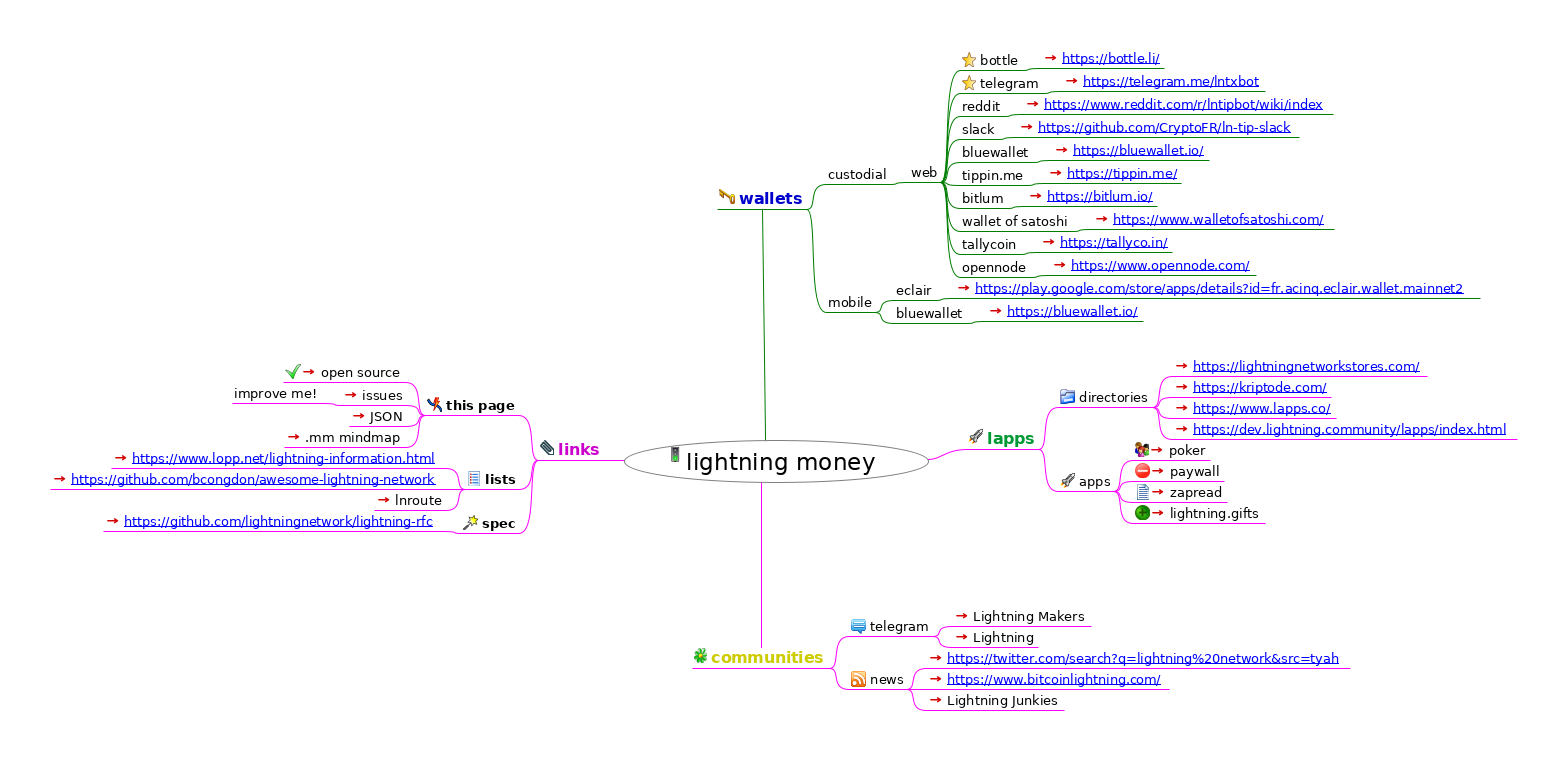
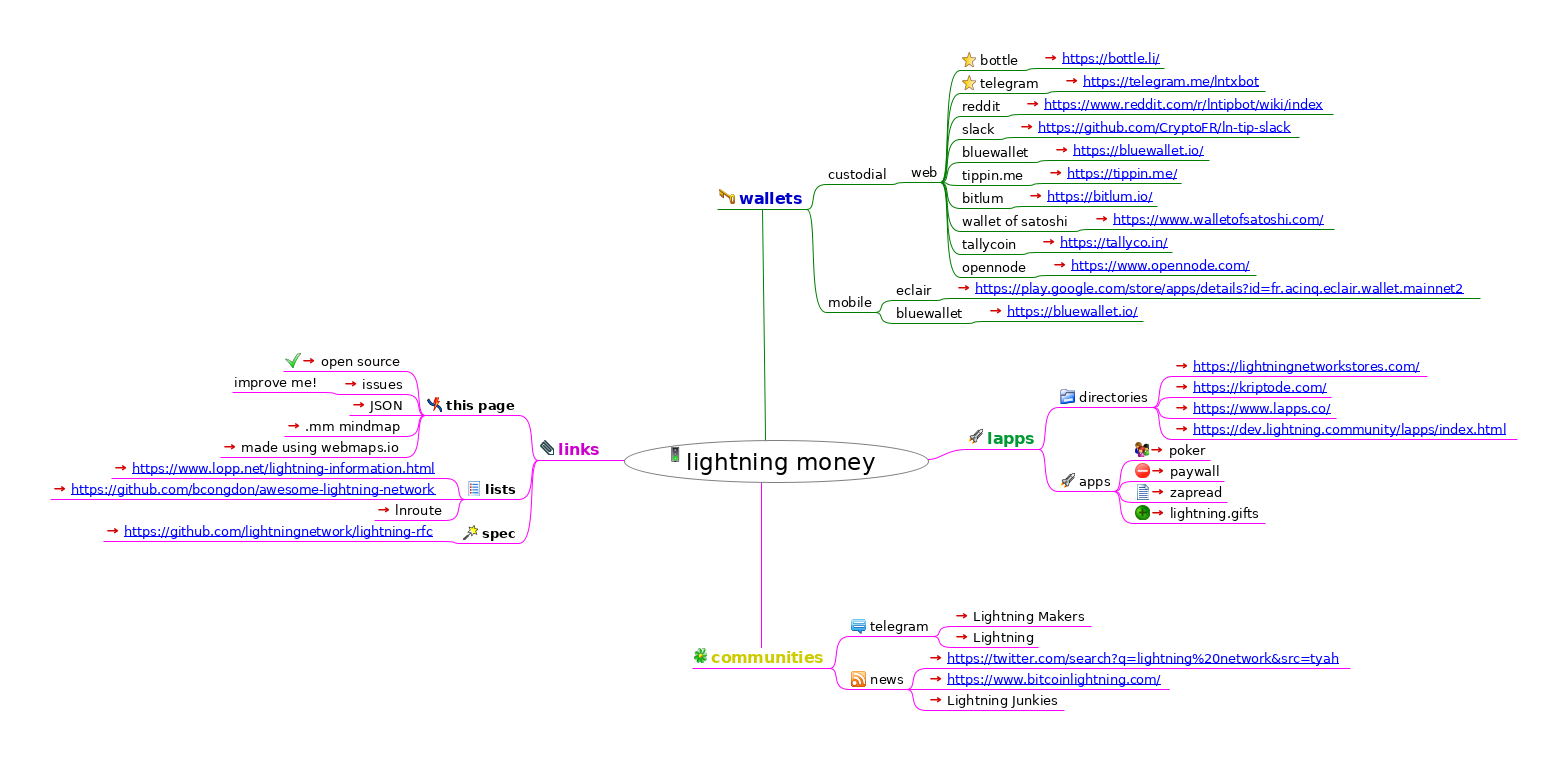
add webmaps.io

Changed region(s): [[0.0306, 0.4539, 0.3369, 0.7263]]

diff --git a/index.html b/index.html
@@ -73,17 +73,18 @@
 <area shape="rect" href="https://anchor.fm/lightning-junkies/" alt="Lightning Junkies" title="Lightning Junkies" coords="926,692,1064,710" />
 <area shape="rect" href="#FMID_728396892FM" alt="links" title="links" coords="538,440,604,460" />
 <area shape="rect" href="#FMID_1704672214FM" alt="this page" title="this page" coords="425,397,519,415" />
-<area shape="rect" href="https://github.com/solidpayorg/lightning.money/" alt="open source" title="open source" coords="283,364,406,382" />
-<area shape="rect" href="https://github.com/solidpayorg/lightning.money/issues" alt="issues" title="issues" coords="341,387,406,405" />
-<area shape="rect" href="#FMID_824388782FM" alt="improve me!" title="improve me!" coords="232,385,322,403" />
-<area shape="rect" href="index.json" alt="JSON" title="JSON" coords="349,408,406,426" />
-<area shape="rect" href="index.html" alt=".mm mindmap" title=".mm mindmap" coords="284,429,406,447" />
-<area shape="rect" href="#FMID_1744026554FM" alt="lists" title="lists" coords="465,471,519,489" />
-<area shape="rect" href="https://www.lopp.net/lightning-information.html" alt="https://www.lopp.net/lightning-informati ..." title="https://www.lopp.net/lightning-informati ..." coords="111,450,446,468" />
-<area shape="rect" href="https://github.com/bcongdon/awesome-lightning-network" alt="https://github.com/bcongdon/awesome-ligh ..." title="https://github.com/bcongdon/awesome-ligh ..." coords="50,471,446,489" />
-<area shape="rect" href="https://lnroute.com/" alt="lnroute" title="lnroute" coords="374,492,446,510" />
-<area shape="rect" href="#FMID_1721082161FM" alt="spec" title="spec" coords="461,515,519,533" />
-<area shape="rect" href="https://github.com/lightningnetwork/lightning-rfc" alt="https://github.com/lightningnetwork/ligh ..." title="https://github.com/lightningnetwork/ligh ..." coords="103,513,442,531" />
+<area shape="rect" href="https://github.com/solidpayorg/lightning.money/" alt="open source" title="open source" coords="283,353,406,371" />
+<area shape="rect" href="https://github.com/solidpayorg/lightning.money/issues" alt="issues" title="issues" coords="341,376,406,394" />
+<area shape="rect" href="#FMID_824388782FM" alt="improve me!" title="improve me!" coords="232,374,322,392" />
+<area shape="rect" href="index.json" alt="JSON" title="JSON" coords="349,397,406,415" />
+<area shape="rect" href="index.html" alt=".mm mindmap" title=".mm mindmap" coords="284,418,406,436" />
+<area shape="rect" href="https://webmaps.io/" alt="made using webmaps.io" title="made using webmaps.io" coords="220,439,406,457" />
+<area shape="rect" href="#FMID_1744026554FM" alt="lists" title="lists" coords="465,481,519,499" />
+<area shape="rect" href="https://www.lopp.net/lightning-information.html" alt="https://www.lopp.net/lightning-informati ..." title="https://www.lopp.net/lightning-informati ..." coords="111,460,446,478" />
+<area shape="rect" href="https://github.com/bcongdon/awesome-lightning-network" alt="https://github.com/bcongdon/awesome-ligh ..." title="https://github.com/bcongdon/awesome-ligh ..." coords="50,481,446,499" />
+<area shape="rect" href="https://lnroute.com/" alt="lnroute" title="lnroute" coords="374,502,446,520" />
+<area shape="rect" href="#FMID_1721082161FM" alt="spec" title="spec" coords="461,525,519,543" />
+<area shape="rect" href="https://github.com/lightningnetwork/lightning-rfc" alt="https://github.com/lightningnetwork/ligh ..." title="https://github.com/lightningnetwork/ligh ..." coords="103,523,442,541" />
 </map>
 
 <div class="node"><img src="index.html_files/hide.png" class="hideshow" alt="hide" onClick="toggle(&quot;N65543&quot;)" id="imgN65543" /><img src="index.html_files/icons/go.svg" alt="go" /> <a id="FMID_1568754813FM" /><div class="nodecontent" style="color:#000000;font-size:150%;">lightning money</div><div class="content" id="N65543"><div class="node"><img src="index.html_files/hide.png" class="hideshow" alt="hide" onClick="toggle(&quot;N66444&quot;)" id="imgN66444" /><img src="index.html_files/icons/password.svg" alt="password" /> <a id="FMID_403237537FM" /><div class="nodecontent" style="color:#0000cc;font-size:100%;font-weight:bold;">wallets</div><div class="content" id="N66444"><div class="node"><img src="index.html_files/hide.png" class="hideshow" alt="hide" onClick="toggle(&quot;N66487&quot;)" id="imgN66487" /><a id="FMID_713142011FM" /><div class="nodecontent" style="color:#000000;font-size:83%;">custodial</div><div class="content" id="N66487"><div class="node"><img src="index.html_files/hide.png" class="hideshow" alt="hide" onClick="toggle(&quot;N66522&quot;)" id="imgN66522" /><a id="FMID_1071283894FM" /><div class="nodecontent" style="color:#000000;font-size:83%;">web</div><div class="content" id="N66522"><div class="node"><img src="index.html_files/hide.png" class="hideshow" alt="hide" onClick="toggle(&quot;N66557&quot;)" id="imgN66557" /><img src="index.html_files/icons/bookmark.svg" alt="bookmark" /> <a id="FMID_432921303FM" /><div class="nodecontent" style="color:#000000;font-size:83%;">bottle</div><div class="content" id="N66557"><div class="node"><img src="index.html_files/leaf.png" class="hideshow" alt="leaf" /><a id="FMID_1723379621FM" /><div class="nodecontent" style="color:#000000;font-size:83%;"><a href="https://bottle.li/">
@@ -122,11 +123,11 @@
     <a http-equiv="content-type" content="text/html; charset=utf-8" href="https://twitter.com/search?q=lightning%20network&amp;src=tyah">https://twitter.com/search?q=lightning%20network&amp;src=tyah</a>
   </a> <a href="https://twitter.com/search?q=lightning%20network&amp;src=tyah"><img src="index.html_files/ilink.png" alt="User Link" style="border-width:0" /></a></div></div><div class="node"><img src="index.html_files/leaf.png" class="hideshow" alt="leaf" /><a id="FMID_1919527951FM" /><div class="nodecontent" style="color:#000000;font-size:83%;"><a href="https://www.bitcoinlightning.com/">
     <a http-equiv="content-type" content="text/html; charset=utf-8" href="https://www.bitcoinlightning.com/">https://www.bitcoinlightning.com/</a>
-  </a> <a href="https://www.bitcoinlightning.com/"><img src="index.html_files/ilink.png" alt="User Link" style="border-width:0" /></a></div></div><div class="node"><img src="index.html_files/leaf.png" class="hideshow" alt="leaf" /><a id="FMID_35176243FM" /><div class="nodecontent" style="color:#000000;font-size:83%;"><a href="https://anchor.fm/lightning-junkies/">Lightning Junkies</a> <a href="https://anchor.fm/lightning-junkies/"><img src="index.html_files/ilink.png" alt="User Link" style="border-width:0" /></a></div></div></div></div></div></div><div class="node"><img src="index.html_files/hide.png" class="hideshow" alt="hide" onClick="toggle(&quot;N68559&quot;)" id="imgN68559" /><img src="index.html_files/icons/attach.svg" alt="attach" /> <a id="FMID_728396892FM" /><div class="nodecontent" style="color:#cc00cc;font-size:100%;font-weight:bold;">links</div><div class="content" id="N68559"><div class="node"><img src="index.html_files/hide.png" class="hideshow" alt="hide" onClick="toggle(&quot;N68602&quot;)" id="imgN68602" /><img src="index.html_files/icons/broken-line.svg" alt="broken-line" /> <a id="FMID_1704672214FM" /><div class="nodecontent" style="color:#000000;font-size:83%;font-weight:bold;">this page</div><div class="content" id="N68602"><div class="node"><img src="index.html_files/leaf.png" class="hideshow" alt="leaf" /><img src="index.html_files/icons/button_ok.svg" alt="button_ok" /> <a id="FMID_1211678675FM" /><div class="nodecontent" style="color:#000000;font-size:83%;"><a href="https://github.com/solidpayorg/lightning.money/">open source</a> <a href="https://github.com/solidpayorg/lightning.money/"><img src="index.html_files/ilink.png" alt="User Link" style="border-width:0" /></a></div></div><div class="node"><img src="index.html_files/hide.png" class="hideshow" alt="hide" onClick="toggle(&quot;N68684&quot;)" id="imgN68684" /><a id="FMID_1677347904FM" /><div class="nodecontent" style="color:#000000;font-size:83%;"><a href="https://github.com/solidpayorg/lightning.money/issues">issues</a> <a href="https://github.com/solidpayorg/lightning.money/issues"><img src="index.html_files/ilink.png" alt="User Link" style="border-width:0" /></a></div><div class="content" id="N68684"><div class="node"><img src="index.html_files/leaf.png" class="hideshow" alt="leaf" /><a id="FMID_824388782FM" /><div class="nodecontent" style="color:#000000;font-size:83%;">improve me!</div></div></div></div><div class="node"><img src="index.html_files/leaf.png" class="hideshow" alt="leaf" /><a id="FMID_903253757FM" /><div class="nodecontent" style="color:#000000;font-size:83%;"><a href="index.json">JSON</a> <a href="index.json"><img src="index.html_files/ilink.png" alt="User Link" style="border-width:0" /></a></div></div><div class="node"><img src="index.html_files/leaf.png" class="hideshow" alt="leaf" /><a id="FMID_963935095FM" /><div class="nodecontent" style="color:#000000;font-size:83%;"><a href="index.html">.mm mindmap</a> <a href="index.html"><img src="index.html_files/ilink.png" alt="User Link" style="border-width:0" /></a></div></div></div></div><div class="node"><img src="index.html_files/hide.png" class="hideshow" alt="hide" onClick="toggle(&quot;N68832&quot;)" id="imgN68832" /><img src="index.html_files/icons/list.svg" alt="list" /> <a id="FMID_1744026554FM" /><div class="nodecontent" style="color:#000000;font-size:83%;font-weight:bold;">lists</div><div class="content" id="N68832"><div class="node"><img src="index.html_files/leaf.png" class="hideshow" alt="leaf" /><a id="FMID_1897426799FM" /><div class="nodecontent" style="color:#000000;font-size:83%;"><a href="https://www.lopp.net/lightning-information.html">
+  </a> <a href="https://www.bitcoinlightning.com/"><img src="index.html_files/ilink.png" alt="User Link" style="border-width:0" /></a></div></div><div class="node"><img src="index.html_files/leaf.png" class="hideshow" alt="leaf" /><a id="FMID_35176243FM" /><div class="nodecontent" style="color:#000000;font-size:83%;"><a href="https://anchor.fm/lightning-junkies/">Lightning Junkies</a> <a href="https://anchor.fm/lightning-junkies/"><img src="index.html_files/ilink.png" alt="User Link" style="border-width:0" /></a></div></div></div></div></div></div><div class="node"><img src="index.html_files/hide.png" class="hideshow" alt="hide" onClick="toggle(&quot;N68559&quot;)" id="imgN68559" /><img src="index.html_files/icons/attach.svg" alt="attach" /> <a id="FMID_728396892FM" /><div class="nodecontent" style="color:#cc00cc;font-size:100%;font-weight:bold;">links</div><div class="content" id="N68559"><div class="node"><img src="index.html_files/hide.png" class="hideshow" alt="hide" onClick="toggle(&quot;N68602&quot;)" id="imgN68602" /><img src="index.html_files/icons/broken-line.svg" alt="broken-line" /> <a id="FMID_1704672214FM" /><div class="nodecontent" style="color:#000000;font-size:83%;font-weight:bold;">this page</div><div class="content" id="N68602"><div class="node"><img src="index.html_files/leaf.png" class="hideshow" alt="leaf" /><img src="index.html_files/icons/button_ok.svg" alt="button_ok" /> <a id="FMID_1211678675FM" /><div class="nodecontent" style="color:#000000;font-size:83%;"><a href="https://github.com/solidpayorg/lightning.money/">open source</a> <a href="https://github.com/solidpayorg/lightning.money/"><img src="index.html_files/ilink.png" alt="User Link" style="border-width:0" /></a></div></div><div class="node"><img src="index.html_files/hide.png" class="hideshow" alt="hide" onClick="toggle(&quot;N68684&quot;)" id="imgN68684" /><a id="FMID_1677347904FM" /><div class="nodecontent" style="color:#000000;font-size:83%;"><a href="https://github.com/solidpayorg/lightning.money/issues">issues</a> <a href="https://github.com/solidpayorg/lightning.money/issues"><img src="index.html_files/ilink.png" alt="User Link" style="border-width:0" /></a></div><div class="content" id="N68684"><div class="node"><img src="index.html_files/leaf.png" class="hideshow" alt="leaf" /><a id="FMID_824388782FM" /><div class="nodecontent" style="color:#000000;font-size:83%;">improve me!</div></div></div></div><div class="node"><img src="index.html_files/leaf.png" class="hideshow" alt="leaf" /><a id="FMID_903253757FM" /><div class="nodecontent" style="color:#000000;font-size:83%;"><a href="index.json">JSON</a> <a href="index.json"><img src="index.html_files/ilink.png" alt="User Link" style="border-width:0" /></a></div></div><div class="node"><img src="index.html_files/leaf.png" class="hideshow" alt="leaf" /><a id="FMID_963935095FM" /><div class="nodecontent" style="color:#000000;font-size:83%;"><a href="index.html">.mm mindmap</a> <a href="index.html"><img src="index.html_files/ilink.png" alt="User Link" style="border-width:0" /></a></div></div><div class="node"><img src="index.html_files/leaf.png" class="hideshow" alt="leaf" /><a id="FMID_1528568892FM" /><div class="nodecontent" style="color:#000000;font-size:83%;"><a href="https://webmaps.io/">made using webmaps.io</a> <a href="https://webmaps.io/"><img src="index.html_files/ilink.png" alt="User Link" style="border-width:0" /></a></div></div></div></div><div class="node"><img src="index.html_files/hide.png" class="hideshow" alt="hide" onClick="toggle(&quot;N68869&quot;)" id="imgN68869" /><img src="index.html_files/icons/list.svg" alt="list" /> <a id="FMID_1744026554FM" /><div class="nodecontent" style="color:#000000;font-size:83%;font-weight:bold;">lists</div><div class="content" id="N68869"><div class="node"><img src="index.html_files/leaf.png" class="hideshow" alt="leaf" /><a id="FMID_1897426799FM" /><div class="nodecontent" style="color:#000000;font-size:83%;"><a href="https://www.lopp.net/lightning-information.html">
     <a http-equiv="content-type" content="text/html; charset=utf-8" href="https://www.lopp.net/lightning-information.html">https://www.lopp.net/lightning-information.html</a>
   </a> <a href="https://www.lopp.net/lightning-information.html"><img src="index.html_files/ilink.png" alt="User Link" style="border-width:0" /></a></div></div><div class="node"><img src="index.html_files/leaf.png" class="hideshow" alt="leaf" /><a id="FMID_1244510370FM" /><div class="nodecontent" style="color:#000000;font-size:83%;"><a href="https://github.com/bcongdon/awesome-lightning-network">
     <a http-equiv="content-type" content="text/html; charset=utf-8" href="https://github.com/bcongdon/awesome-lightning-network">https://github.com/bcongdon/awesome-lightning-network</a>
-  </a> <a href="https://github.com/bcongdon/awesome-lightning-network"><img src="index.html_files/ilink.png" alt="User Link" style="border-width:0" /></a></div></div><div class="node"><img src="index.html_files/leaf.png" class="hideshow" alt="leaf" /><a id="FMID_1451851808FM" /><div class="nodecontent" style="color:#000000;font-size:83%;"><a href="https://lnroute.com/">lnroute</a> <a href="https://lnroute.com/"><img src="index.html_files/ilink.png" alt="User Link" style="border-width:0" /></a></div></div></div></div><div class="node"><img src="index.html_files/hide.png" class="hideshow" alt="hide" onClick="toggle(&quot;N69020&quot;)" id="imgN69020" /><img src="index.html_files/icons/wizard.svg" alt="wizard" /> <a id="FMID_1721082161FM" /><div class="nodecontent" style="color:#000000;font-size:83%;font-weight:bold;">spec</div><div class="content" id="N69020"><div class="node"><img src="index.html_files/leaf.png" class="hideshow" alt="leaf" /><a id="FMID_1858353829FM" /><div class="nodecontent" style="color:#000000;font-size:83%;"><a href="https://github.com/lightningnetwork/lightning-rfc">
+  </a> <a href="https://github.com/bcongdon/awesome-lightning-network"><img src="index.html_files/ilink.png" alt="User Link" style="border-width:0" /></a></div></div><div class="node"><img src="index.html_files/leaf.png" class="hideshow" alt="leaf" /><a id="FMID_1451851808FM" /><div class="nodecontent" style="color:#000000;font-size:83%;"><a href="https://lnroute.com/">lnroute</a> <a href="https://lnroute.com/"><img src="index.html_files/ilink.png" alt="User Link" style="border-width:0" /></a></div></div></div></div><div class="node"><img src="index.html_files/hide.png" class="hideshow" alt="hide" onClick="toggle(&quot;N69057&quot;)" id="imgN69057" /><img src="index.html_files/icons/wizard.svg" alt="wizard" /> <a id="FMID_1721082161FM" /><div class="nodecontent" style="color:#000000;font-size:83%;font-weight:bold;">spec</div><div class="content" id="N69057"><div class="node"><img src="index.html_files/leaf.png" class="hideshow" alt="leaf" /><a id="FMID_1858353829FM" /><div class="nodecontent" style="color:#000000;font-size:83%;"><a href="https://github.com/lightningnetwork/lightning-rfc">
     <a http-equiv="content-type" content="text/html; charset=utf-8" href="https://github.com/lightningnetwork/lightning-rfc">https://github.com/lightningnetwork/lightning-rfc</a>
   </a> <a href="https://github.com/lightningnetwork/lightning-rfc"><img src="index.html_files/ilink.png" alt="User Link" style="border-width:0" /></a></div></div></div></div></div></div></div></div>
 </body></html>

diff --git a/index.mm b/index.mm
@@ -371,6 +371,7 @@
 </node>
 <node TEXT="JSON" ID="ID_903253757" CREATED="1569940872371" MODIFIED="1569940882474" LINK="index.json"/>
 <node TEXT=".mm mindmap" ID="ID_963935095" CREATED="1569940890302" MODIFIED="1569940906746" LINK="index.mm"/>
+<node TEXT="made using webmaps.io" ID="ID_1528568892" CREATED="1572168531186" MODIFIED="1572168557816" LINK="https://webmaps.io/"/>
 </node>
 <node TEXT="lists" ID="ID_1744026554" CREATED="1569861388704" MODIFIED="1572154793341">
 <icon BUILTIN="list"/>
